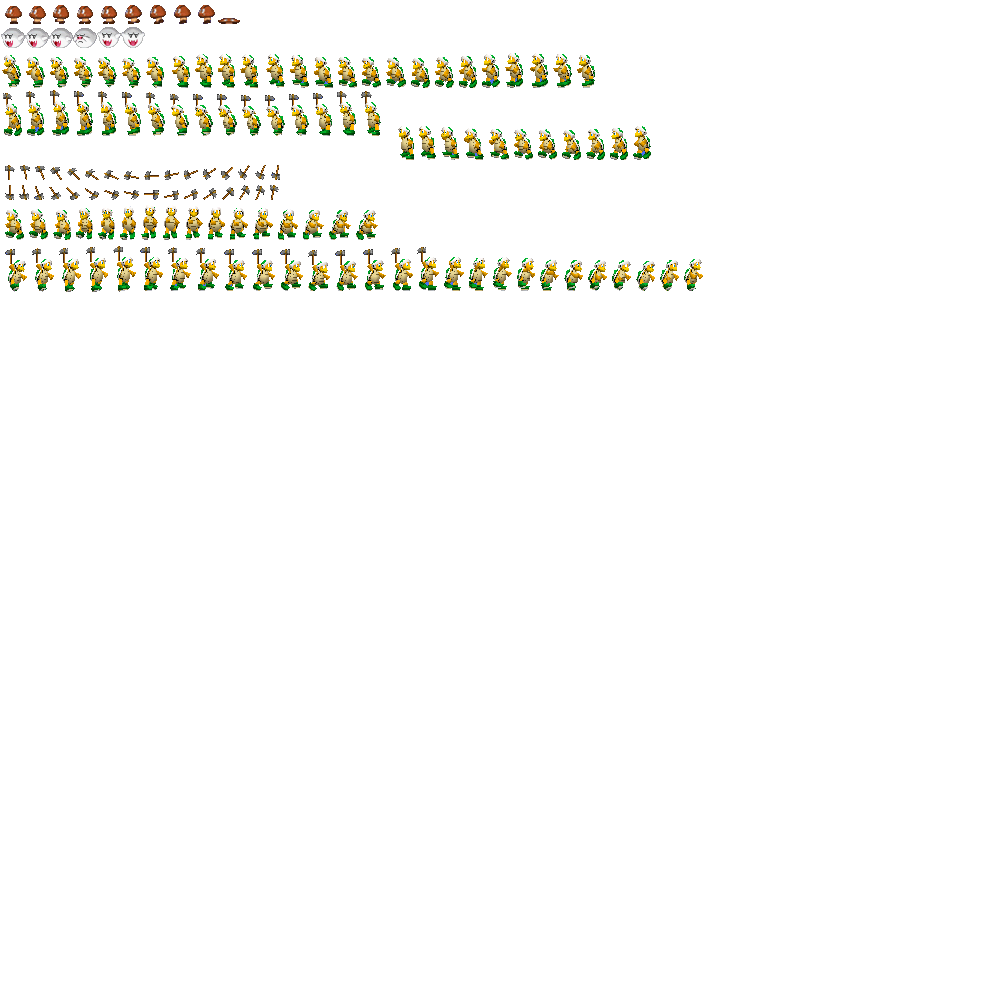
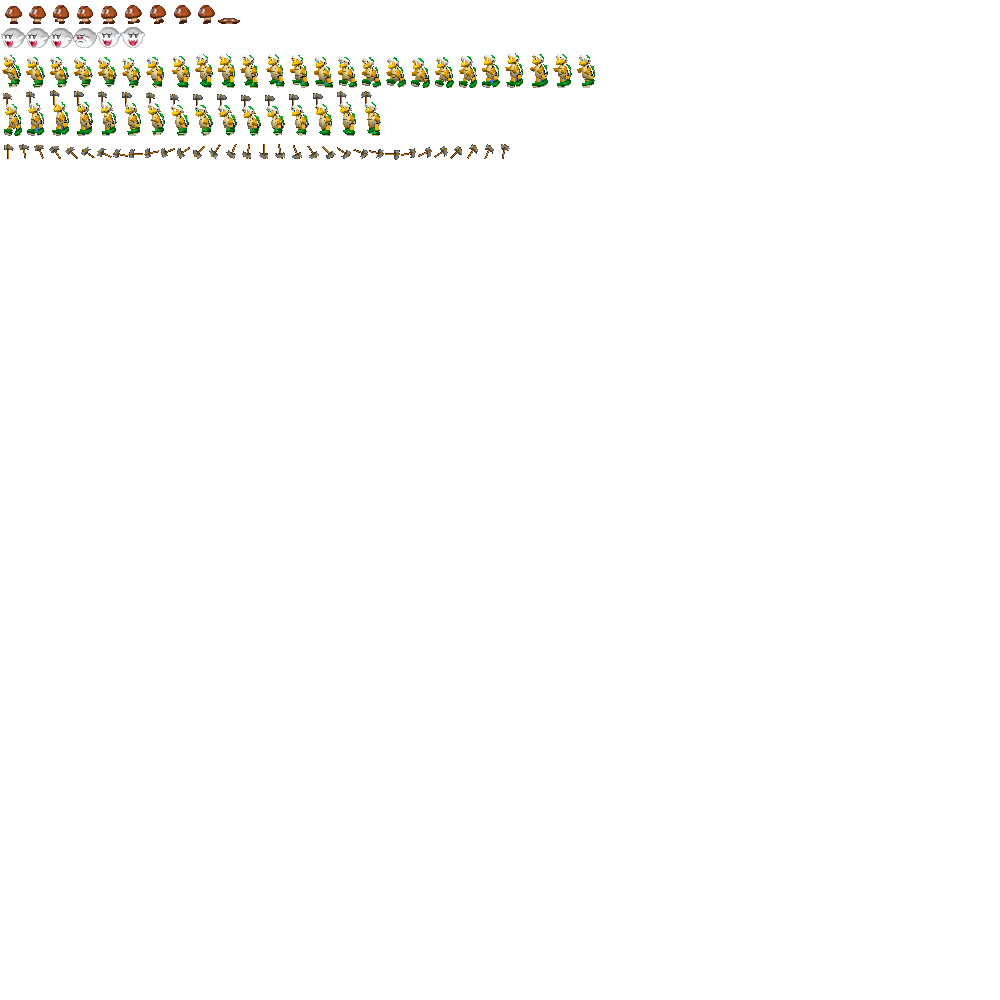
해머구현

Changed region(s): [[0.0, 0.124, 0.713, 0.31], [0.372, 0.124, 0.651, 0.186]]

diff --git a/newSuperMario/Monster_class.py b/newSuperMario/Monster_class.py
@@ -4,7 +4,6 @@ from object_variable import *
 import game_world
 from BehaviorTree import *
 import Main_state
-import object_class
 
 def contact_aAndb(a, b, p = 0):
     left_a, bottom_a, right_a, top_a = a.get_bb()
@@ -240,8 +239,10 @@ class Hammer_bros:
         if self.timer <= 0:
             self.timer = 1.0
 
-            Hammer = object_class.object_item(self.x - self.movex, self.y, 304, self.dir)
-            game_world.add_object(Hammer, 1)
+            dx = Main_state.get_mario().x - self.x
+
+            ham = Hammer(self.x - self.movex, self.y, 305, self.dir, dx)
+            game_world.add_object(ham, 1)
 
             return BehaviorTree.SUCCESS
 
@@ -283,5 +284,84 @@ class Hammer_bros:
                     self.velocity = 1
                     self.dir = 1
 
+class Hammer:
+    image = None
+
+    def __init__(self, x, y, ability=None, dir = 1, parabola):
+        self.x = x
+        self.y = y
+        self.movex = 0
+        self.move2x = 0
+        self.movey = 0
+        self.move2y = 0
+        self.crex = x
+        self.crey = y
+        self.ability = ability
+        self.dir = dir
+        self.frame = 0
+        self.JUMP = False
+        self.ga = 5.0
+        self.parabola = parabola
+
+        self.py = 0
+
+
+        self.size = [32, 32]
+        if ability == 305:
+            self.g = 500
+            self.JUMP = True
+
+        if Hammer.image == None:
+            Hammer.image = load_image('Monster.png')
+    def update(self):
+
+        if self.ability == 305:
+            self.frame = (self.frame + 60 * game_framework.frame_time)
+            if self.frame >= 32:
+                self.frame = 0
+
+        self.py = self.move2y
+        if self.ability >= 303:
+            if self.JUMP:
+                self.move2y += self.g * game_framework.frame_time
+                self.g -= self.ga
+                if self.g < 0:
+                    self.JUMP = False
+
+            else:
+                self.move2y -= self.g * game_framework.frame_time
+                self.g += self.ga
+                if self.g >= 900 and self.ability == 303:
+                    self.g = 900
+        else:
+            if self.JUMP:
+                self.move2y += self.g * game_framework.frame_time
+            else:
+                self.move2y -= self.g * game_framework.frame_time
+
+        if self.ability == 305:
+            self.move2x += self.dir * 0.9 * self.parabola * game_framework.frame_time
+
+        self.x = self.crex + self.movex + self.move2x
+        self.y = self.crey + self.movey + self.move2y
+
+        if self.y <= -50:
+            game_world.remove_object(self)
+
+
+    def draw(self):
+        if self.dir == -1:
+            self.image.clip_draw(int(self.frame) * 16, 1000 - 2 * 24 - 112, 16, 16, self.x, self.y, self.size[0],
+                                 self.size[1])
+        else:
+            self.image.clip_composite_draw(int(self.frame) * 16, 1000 - 2 * 24 - 112, 16, 16, 0, 'h', self.x,
+                                           self.y,self.size[0], self.size[1])
+
+        draw_rectangle(*self.get_bb())
+
+    def get_bb(self):
+        if self.ability == 304 :
+            return self.x - 6, self.y - 6, self.x + 6, self.y + 6
+        return self.x - 16, self.y - 16, self.x + 16, self.y + 14
 
 

diff --git a/newSuperMario/Mario_class.py b/newSuperMario/Mario_class.py
@@ -494,7 +494,7 @@ class DieState:
                 if hero.g > 1100:
                     hero.g = 1100
                     CHANGE_TIME = 1.0
-                if hero.y <= -1000:
+                if hero.y <= -500:
                     TIME_PER_ACTION = 0.7
                     ACTION_PER_TIME = 1.0 / TIME_PER_ACTION
                     FRAMES_PER_ACTION = 21
